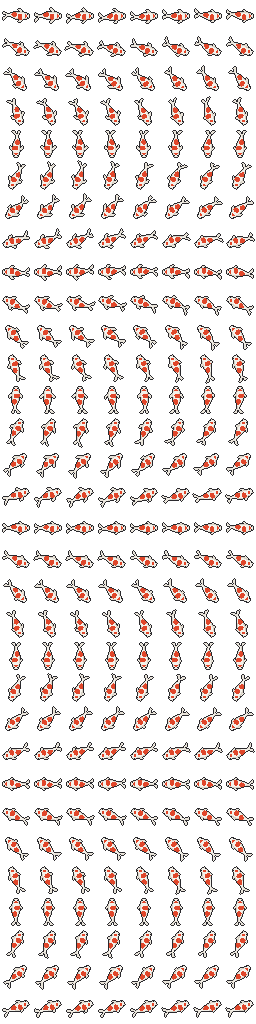
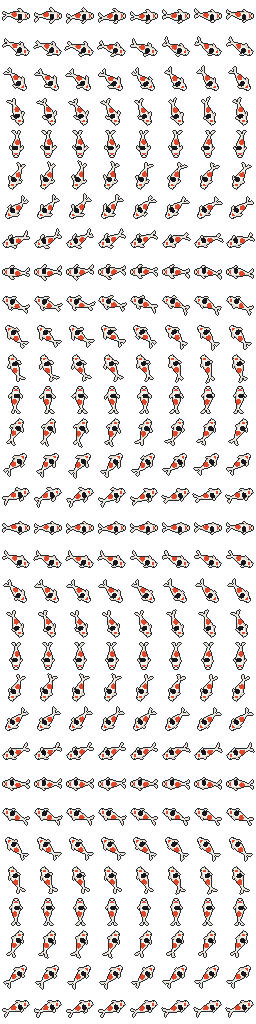
Give koi black shoulder patch

diff --git a/tools/draw_sprites.py b/tools/draw_sprites.py
@@ -99,6 +99,7 @@ KOI = {
     "white": rgba("#f4f1ea"),
     "shade": rgba("#d9d3c7"),
     "red": rgba("#e0472b"),
+    "sumi": rgba("#18171b"),      # black marking
     "fin": rgba("#e9e4da"),
     "eye": rgba("#1d1f24"),
     "line": rgba("#2b2a2e"),
@@ -146,7 +147,7 @@ def koi_frame(phase, angle, sway, fin_reach, fin_flap):
         if ((t - 0.42) / 0.11) ** 2 + ((s + 0.25) / 0.85) ** 2 < 1:
             color = KOI["red"]
         if ((t - 0.66) / 0.09) ** 2 + ((s - 0.3) / 0.8) ** 2 < 1:
-            color = KOI["red"]
+            color = KOI["sumi"]  # black patch on the shoulders
         if ((t - 0.88) / 0.05) ** 2 + (s / 0.55) ** 2 < 1:
             color = KOI["red"]  # tancho spot on the head
         return color
